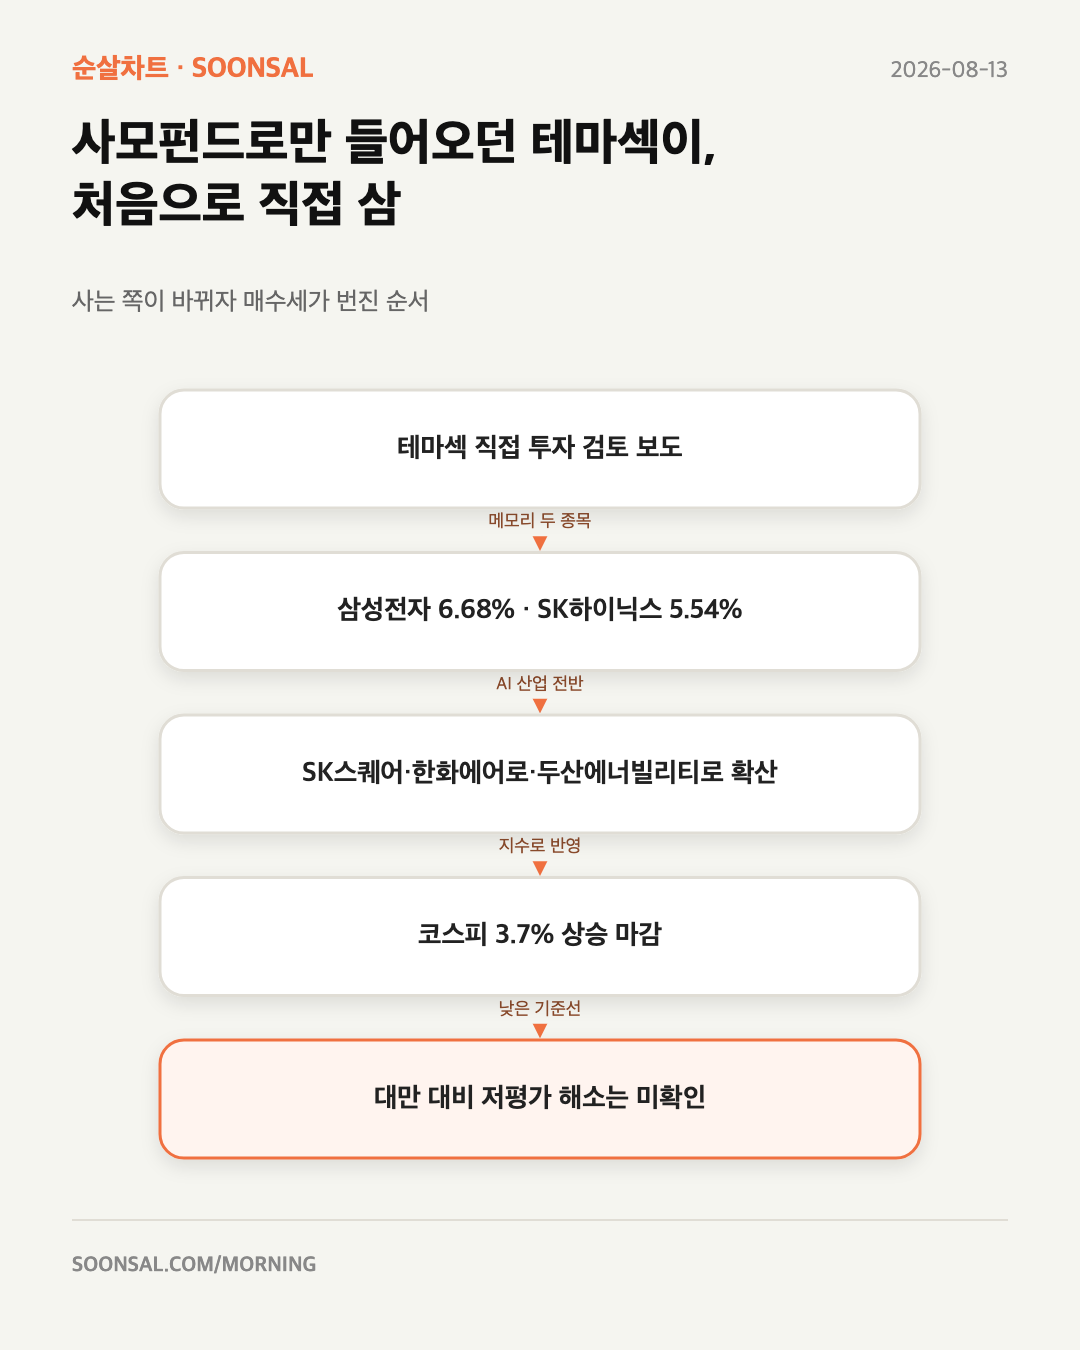
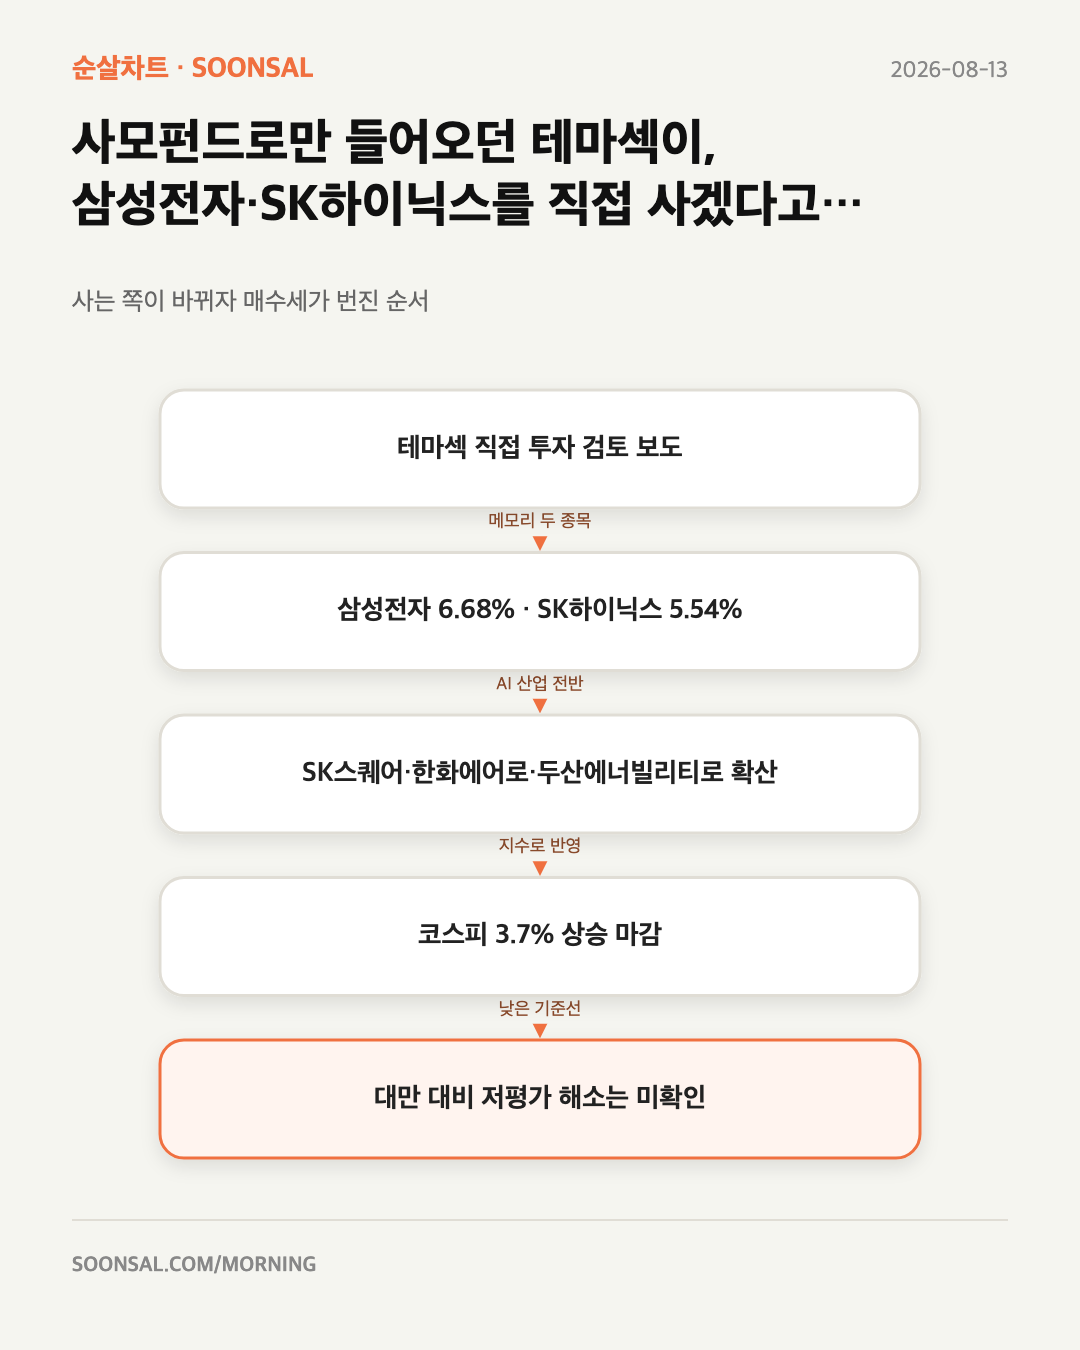
테마섹 헤드라인에 목적어를 넣고 계획 보도 어조를 되살린다
"처음으로 직접 삼"은 무엇을 샀는지가 없어 한 번에 안 읽히고, 이미 산
것처럼 읽혀서 원천보다 앞서 나갔다. 원천은 계획 보도다
(108행: "report that Temasek plans to invest directly in
Samsung Electronics and SK Hynix").

Changed region(s): [[0.0611, 0.1244, 0.7944, 0.1867]]

diff --git a/chart/index.html b/chart/index.html
@@ -153,7 +153,7 @@ color:#8a857c;text-decoration:none}
 <main class="archive-shell"><header class="archive-head"><div class="archive-kicker">날짜별 시장 정리</div><h1>순살차트</h1><p class="deck">날짜를 고르고, 궁금한 주제부터 바로 봄</p></header><section class="archive-list" aria-label="날짜별 순살차트"><article class="issue-card latest">
   <header class="issue-date"><time datetime="2026-08-13">2026-08-13</time><span class="latest-badge">최신</span><span class="issue-count">9개 주제</span></header>
   <a class="lead-chart" href="2026/0813.html#cpi-hike-trade" aria-label="미국은 인상 명분이 옅어졌는데, 한국은행은 더 올리겠다고 함 핵심 차트 보기"><span class="lead-chart-kicker">오늘의 핵심 차트</span><span class="lead-chart-title">미국은 인상 명분이 옅어졌는데, 한국은행은 더 올리겠다고 함</span><img src="/chart/assets/20260813/cpi-hike-trade-diagram-mobile.svg" alt="" loading="eager"></a>
-  <details class="issue-topics"><summary class="issue-head" aria-label="2026-08-13 나머지 주제 목록 접기 또는 펼치기"><span class="issue-more-icon" aria-hidden="true">＋</span><span class="issue-more-copy"><strong><em>8</em>개 차트 더 보기</strong><small>오늘 시장의 다른 흐름도 한 번에</small></span><span class="issue-toggle" aria-hidden="true">⌄</span></summary><div class="issue-body"><ol class="topic-list" aria-label="2026-08-13 나머지 주제 목록"><li><a href="2026/0813.html#temasek-kospi"><span class="topic-no">02</span><span class="topic-title">사모펀드로만 들어오던 테마섹이, <span class="topic-highlight">처음으로 직접</span> 삼</span><span class="topic-go" aria-hidden="true">→</span></a></li><li><a href="2026/0813.html#ai-credit-easing"><span class="topic-no">03</span><span class="topic-title">AI 투자가 실적이 아니라, <span class="topic-highlight">돈 빌리는 조건</span>으로 돌아감</span><span class="topic-go" aria-hidden="true">→</span></a></li><li><a href="2026/0813.html#phantom-power"><span class="topic-no">04</span><span class="topic-title">AI 데이터센터가 신청한 전력, <span class="topic-highlight">3분의 2는 실제로 안 들어옴</span></span><span class="topic-go" aria-hidden="true">→</span></a></li><li><a href="2026/0813.html#consumer-stress"><span class="topic-no">05</span><span class="topic-title">정가를 지키던 브랜드가, <span class="topic-highlight">지갑 닫은 소비자에게 걸림</span></span><span class="topic-go" aria-hidden="true">→</span></a></li><li><a href="2026/0813.html#tencent-memory"><span class="topic-no">06</span><span class="topic-title">텐센트가 AI 투자를 두 배로 늘렸지만, 한국 메모리엔 <span class="topic-highlight">고르게 오지 않음</span></span><span class="topic-go" aria-hidden="true">→</span></a></li><li><a href="2026/0813.html#korea-trade-fx"><span class="topic-no">07</span><span class="topic-title">원화를 밀어 올리는 건 지금 <span class="topic-highlight">기름값이 아니라 수출</span>임</span><span class="topic-go" aria-hidden="true">→</span></a></li><li><a href="2026/0813.html#hormuz-deficit"><span class="topic-no">08</span><span class="topic-title">호르무즈가 안 풀리는데, <span class="topic-highlight">공급 부족 전망은 더 커짐</span></span><span class="topic-go" aria-hidden="true">→</span></a></li><li><a href="2026/0813.html#yen-anchor"><span class="topic-no">09</span><span class="topic-title">엔화가 어떤 기준에서도, <span class="topic-highlight">너무 멀리 와 있음</span></span><span class="topic-go" aria-hidden="true">→</span></a></li></ol><a class="issue-all" href="2026/0813.html">이날 순살차트 전체 보기 <span aria-hidden="true">→</span></a></div></details>
+  <details class="issue-topics"><summary class="issue-head" aria-label="2026-08-13 나머지 주제 목록 접기 또는 펼치기"><span class="issue-more-icon" aria-hidden="true">＋</span><span class="issue-more-copy"><strong><em>8</em>개 차트 더 보기</strong><small>오늘 시장의 다른 흐름도 한 번에</small></span><span class="issue-toggle" aria-hidden="true">⌄</span></summary><div class="issue-body"><ol class="topic-list" aria-label="2026-08-13 나머지 주제 목록"><li><a href="2026/0813.html#temasek-kospi"><span class="topic-no">02</span><span class="topic-title">사모펀드로만 들어오던 테마섹이, 삼성전자·SK하이닉스를 <span class="topic-highlight">직접</span> 사겠다고 함</span><span class="topic-go" aria-hidden="true">→</span></a></li><li><a href="2026/0813.html#ai-credit-easing"><span class="topic-no">03</span><span class="topic-title">AI 투자가 실적이 아니라, <span class="topic-highlight">돈 빌리는 조건</span>으로 돌아감</span><span class="topic-go" aria-hidden="true">→</span></a></li><li><a href="2026/0813.html#phantom-power"><span class="topic-no">04</span><span class="topic-title">AI 데이터센터가 신청한 전력, <span class="topic-highlight">3분의 2는 실제로 안 들어옴</span></span><span class="topic-go" aria-hidden="true">→</span></a></li><li><a href="2026/0813.html#consumer-stress"><span class="topic-no">05</span><span class="topic-title">정가를 지키던 브랜드가, <span class="topic-highlight">지갑 닫은 소비자에게 걸림</span></span><span class="topic-go" aria-hidden="true">→</span></a></li><li><a href="2026/0813.html#tencent-memory"><span class="topic-no">06</span><span class="topic-title">텐센트가 AI 투자를 두 배로 늘렸지만, 한국 메모리엔 <span class="topic-highlight">고르게 오지 않음</span></span><span class="topic-go" aria-hidden="true">→</span></a></li><li><a href="2026/0813.html#korea-trade-fx"><span class="topic-no">07</span><span class="topic-title">원화를 밀어 올리는 건 지금 <span class="topic-highlight">기름값이 아니라 수출</span>임</span><span class="topic-go" aria-hidden="true">→</span></a></li><li><a href="2026/0813.html#hormuz-deficit"><span class="topic-no">08</span><span class="topic-title">호르무즈가 안 풀리는데, <span class="topic-highlight">공급 부족 전망은 더 커짐</span></span><span class="topic-go" aria-hidden="true">→</span></a></li><li><a href="2026/0813.html#yen-anchor"><span class="topic-no">09</span><span class="topic-title">엔화가 어떤 기준에서도, <span class="topic-highlight">너무 멀리 와 있음</span></span><span class="topic-go" aria-hidden="true">→</span></a></li></ol><a class="issue-all" href="2026/0813.html">이날 순살차트 전체 보기 <span aria-hidden="true">→</span></a></div></details>
 </article><article class="issue-card">
   <header class="issue-date"><time datetime="2026-08-12">2026-08-12</time><span class="issue-count">9개 주제</span></header>
   <a class="lead-chart" href="2026/0812.html#cpi-bond-shorts" aria-label="CPI 숫자보다 무서운 건, 한쪽에 몰린 채권 베팅 핵심 차트 보기"><span class="lead-chart-kicker">오늘의 핵심 차트</span><span class="lead-chart-title">CPI 숫자보다 무서운 건, <span class="topic-highlight">한쪽에 몰린 채권 베팅</span></span><img src="/chart/assets/20260812/cpi-bond-shorts-diagram-mobile.svg" alt="" loading="lazy"></a>

diff --git a/chart/2026/0813.html b/chart/2026/0813.html
@@ -176,7 +176,7 @@ color:#8a857c;text-decoration:none}
 </article><article class="story morning-topic topic-markets" id="temasek-kospi" data-topic-theme="markets" data-ss-story="m20260813-temasek-kospi" data-ss-issue="m20260813" style="--topic-accent:#8A4B42;--topic-wash:#F7F3EE;--topic-soft:#EAE1D8">
   <span class="story-index" aria-hidden="true">02</span>
   <div class="story-label">02 · 한국 시장 · 반도체</div>
-  <h2 class="story-title">사모펀드로만 들어오던 테마섹이, 처음으로 직접 삼</h2>
+  <h2 class="story-title">사모펀드로만 들어오던 테마섹이, 삼성전자·SK하이닉스를 직접 사겠다고 함</h2>
   <p class="opening bullet">테마섹이 외부 운용사를 거치지 않고 내부 팀으로 삼성전자와 SK하이닉스에 직접 투자하는 방안을 검토 중이라는 보도가 나왔음. 코스피는 6,579.04로 3.7% 올랐고 장중에는 5.1%까지 뛰었음</p>
   <figure class="diagram-frame"><div class="diagram-live" role="img" aria-label="사는 쪽이 바뀌자 매수세가 번진 순서" data-diagram-src="/chart/assets/20260813/temasek-kospi-diagram.svg?v=1912092fed8b" data-diagram-mobile-src="/chart/assets/20260813/temasek-kospi-diagram-mobile.svg?v=58c254282a96" data-diagram-orientation="TB"><picture class="diagram-poster"><source media="(max-width:720px)" srcset="/chart/assets/20260813/temasek-kospi-diagram-mobile.svg?v=58c254282a96"><img src="/chart/assets/20260813/temasek-kospi-diagram.svg?v=1912092fed8b" alt="" aria-hidden="true" loading="lazy"></picture></div><button class="diagram-replay" type="button" aria-label="사는 쪽이 바뀌자 매수세가 번진 순서 애니메이션 다시 보기"><span aria-hidden="true">↻</span> 흐름 한 번 더</button><p class="diagram-tip">박스를 누르면 그 단계부터 다시 흐릅니다</p></figure>
   <div class="soonsal-point"><strong>순살 포인트</strong><p>지난달 AI 조정에서 겨우 올라오던 자리에서 나온 반등임. 대만보다 싸다는 평가가 진짜 좁혀지는지는 며칠간 외국인이 계속 사는지를 봐야 함</p></div>
